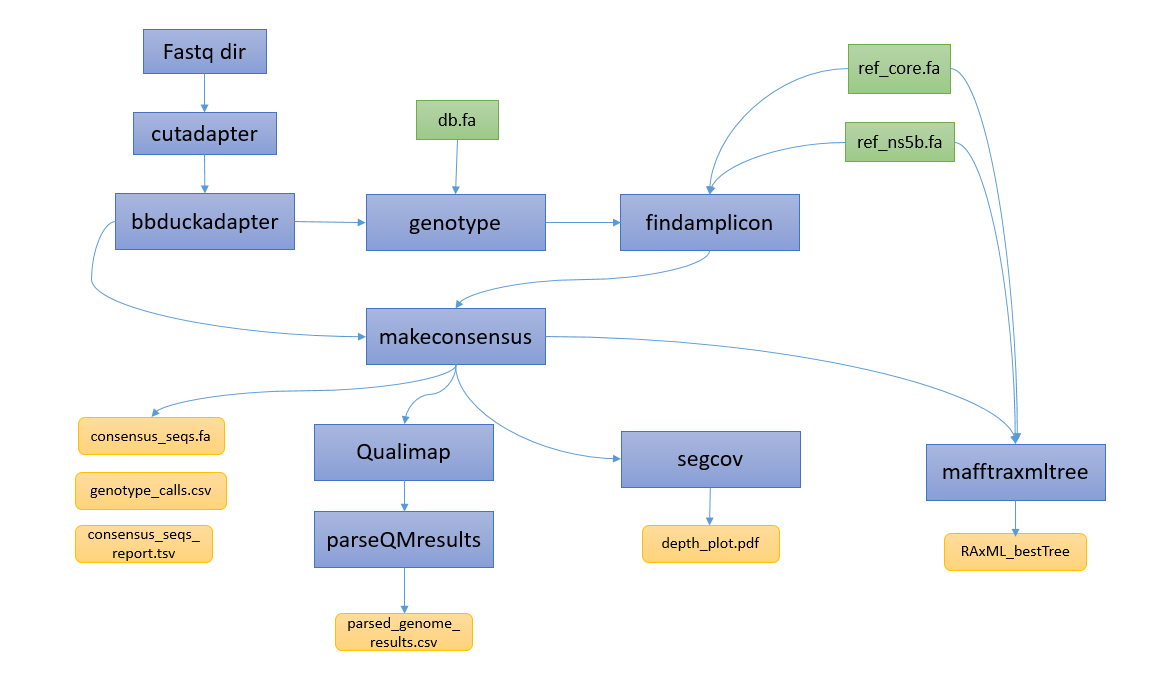
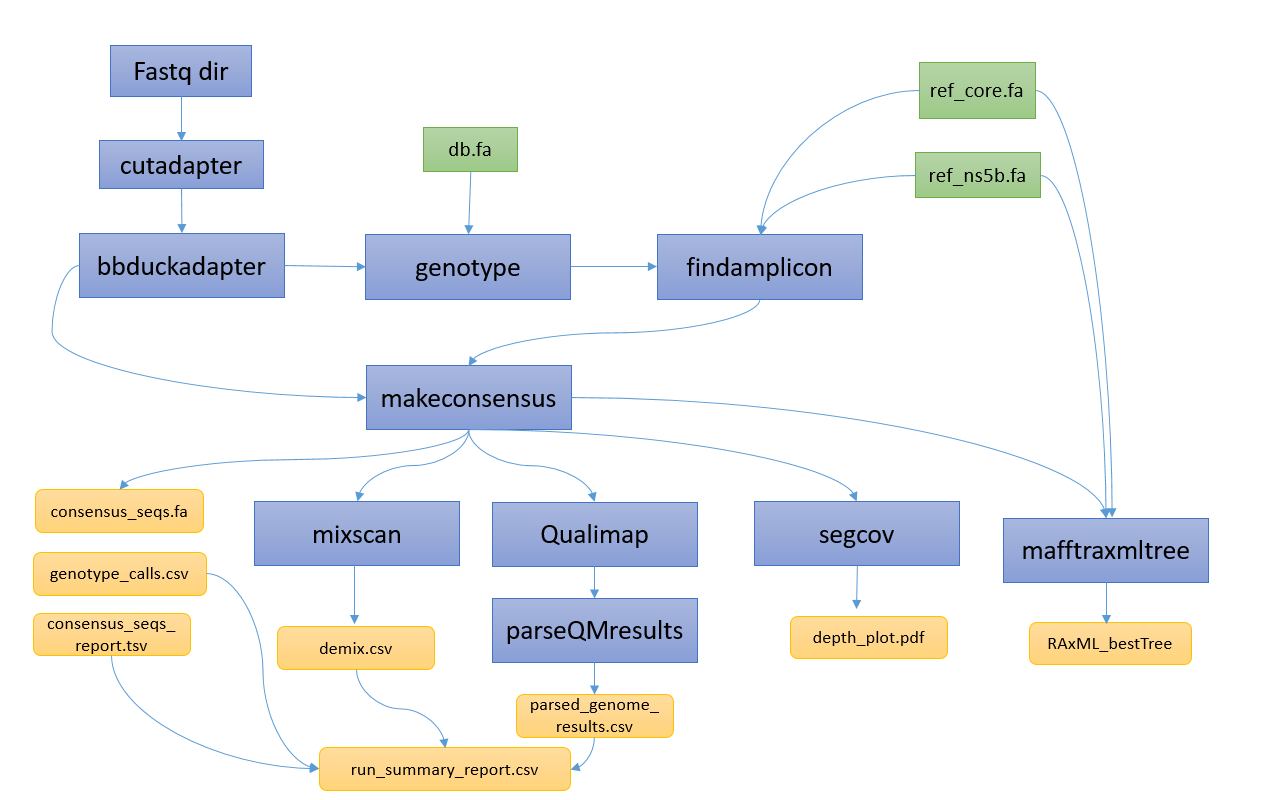
optimized reporting and add stuff to readme

diff --git a/bin/report.py b/bin/report.py
@@ -3,111 +3,134 @@
 import pandas as pd
 import re
 import numpy as np
-
-consensus_report = pd.read_csv('combined_consensus_seqs_report.tsv', sep='\t')
-genotype_calls = pd.read_csv('combined_genotype_calls.csv')
-demix_report = pd.read_csv('combined_demix_report.csv')
-qc_report = pd.read_csv('combined_qc_stats.csv')
-basic_qc = pd.read_csv('../basic_qc/basic_qc_stats.csv')
-abundance = pd.read_csv('../abundance_top_n/top_5_abundances_species.csv')
-
-with open('fastqlist') as f:
-    fqlist = f.readlines()
-
-fqlist = [q.strip() for q in fqlist]
-
-fqlist_df = pd.DataFrame(fqlist, columns = ['sample_id'])
-
-#process consensus result
-consensus_report['sample_id'] = consensus_report['consensus_seq'].apply(lambda x: re.sub("^_R_","", x))
-consensus_report['sample_id'] = consensus_report['sample_id'].apply(lambda x: x.split('_')[0])
-
-consensus_report_reduced = consensus_report[["sample_id","amplicon","subtype","sequenced_bases"]]
-consensus_report_reduced =  consensus_report_reduced.astype(str)
-consensus_report_concat = consensus_report_reduced.groupby(['sample_id', 'amplicon']).agg({'subtype': [('subtype', '|'.join)],'sequenced_bases':[('sequenced_bases','|'.join)]}).reset_index()
-consensus_report_concat = pd.DataFrame(consensus_report_concat.values, columns=['sample_id','amplicon','subtype','sequenced_bases'])
-consensus_report_spread = consensus_report_concat.pivot(index=['sample_id'],columns='amplicon',values=['subtype','sequenced_bases']).reset_index()
-consensus_report_spread.columns = consensus_report_spread.columns.map(lambda index: f'{index[1]}_{index[0]}')
-consensus_report_spread = consensus_report_spread.rename(columns={'_sample_id': 'sample_id'})
-#process qc results
+import argparse
 
 
-qc_report = pd.merge(consensus_report['consensus_seq'],qc_report, left_on="consensus_seq", right_on="contig",how='left')
-qc_report_reduced = qc_report[["sample_id","amplicon","total_mapped_bases","mean_coverage","std_coverage","proportion_genome_covered_over_20x"]]
-qc_report_reduced[['mean_coverage']] = round(qc_report_reduced[['mean_coverage']]).astype(int)
-qc_report_reduced[['std_coverage']] = round(qc_report_reduced[['std_coverage']]).astype(int)
-qc_report_reduced[['proportion_genome_covered_over_20x']] = round(qc_report_reduced[['proportion_genome_covered_over_20x']],2)
-qc_report_reduced =  qc_report_reduced.astype(str)
-qc_report_concat = qc_report_reduced.groupby(['sample_id', 'amplicon']).agg({'total_mapped_bases': [('total_mapped_bases', '|'.join)],'mean_coverage':[('mean_coverage','|'.join)],'std_coverage':[('std_coverage','|'.join)],'proportion_genome_covered_over_20x':[('proportion_genome_covered_over_20x','|'.join)]}).reset_index()
-qc_report_concat = pd.DataFrame(qc_report_concat.values, columns=['sample_id','amplicon','total_mapped_bases','mean_coverage',"std_coverage","proportion_genome_covered_over_20x"])
-qc_report_spread = qc_report_concat.pivot(index=['sample_id'],columns='amplicon',values=['total_mapped_bases','mean_coverage','std_coverage','proportion_genome_covered_over_20x']).reset_index()
-qc_report_spread.columns = qc_report_spread.columns.map(lambda index: f'{index[1]}_{index[0]}')
-qc_report_spread = qc_report_spread.rename(columns={'_sample_id': 'sample_id'})
+def main(args):
+    #consensus_report = pd.read_csv('combined_consensus_seqs_report.tsv', sep='\t')
+    #genotype_calls = pd.read_csv('combined_genotype_calls.csv')
+    #demix_report = pd.read_csv('combined_demix_report.csv')
+    #qc_report = pd.read_csv('combined_qc_stats.csv')
+    #basic_qc = pd.read_csv('../basic_qc/basic_qc_stats.csv')
+    #abundance = pd.read_csv('../abundance_top_n/top_5_abundances_species.csv')
+    consensus_report = pd.read_csv(args.consensus_report, sep='\t')
+    genotype_calls = pd.read_csv(args.genotype_calls)
+    demix_report = pd.read_csv(args.demix_report)
+    qc_report = pd.read_csv(args.qc_report)
+    basic_qc = pd.read_csv(args.basic_qc)
+    abundance = pd.read_csv(args.abundance_top_n)
 
-#process genotype results
-genotype_calls['sample_id'] = genotype_calls['qseqid'].apply(lambda x: re.sub("^_R_","", x))
-genotype_calls['sample_id'] = genotype_calls['sample_id'].apply(lambda x: x.split('_')[0])
-genotype_calls['amplicon'] = genotype_calls['qseqid'].apply(lambda x: x.split('|')[1])
-genotype_calls['qseqid'] = genotype_calls['qseqid'].apply(lambda x: x.split('|')[0])
+    with open(args.fastqlist) as f:
+        fqlist = f.readlines()
 
-genotype_calls_reduced = genotype_calls[['sample_id','qseqid', 'sseqid','amplicon','bitscore']]
+    fqlist = [q.strip() for q in fqlist]
 
-#top1 genotype
-best_bitscores = genotype_calls_reduced.groupby(['qseqid','amplicon']).max('bitcore').reset_index()
-best_gt = pd.merge(genotype_calls_reduced, best_bitscores, on=['qseqid', 'amplicon','bitscore'])
+    fqlist_df = pd.DataFrame(fqlist, columns = ['sample_id'])
 
-#best_gt = best_gt.groupby(['sample_id', 'amplicon']).agg({'sseqid': [('sseqid', ','.join)],'bitscore':[('bitscore',np.mean)]}).reset_index()
-best_gt = best_gt.groupby(['sample_id', 'amplicon']).agg({'sseqid': [('sseqid', ','.join)],'bitscore':[('bitscore',list)]}).reset_index()
-best_gt = pd.DataFrame(best_gt.values, columns = ['sample_id','amplicon','top1_genotype','top1_bitscore'])
-best_gt_spread = best_gt.pivot(index=['sample_id'],columns='amplicon',values=['top1_genotype','top1_bitscore']).reset_index()
-best_gt_spread.columns = best_gt_spread.columns.map(lambda index: f'{index[1]}_{index[0]}')
-best_gt_spread = best_gt_spread.rename(columns={'_sample_id': 'sample_id'})
+    #process consensus result
+    consensus_report['sample_id'] = consensus_report['consensus_seq'].apply(lambda x: re.sub("^_R_","", x))
+    consensus_report['sample_id'] = consensus_report['sample_id'].apply(lambda x: x.split('_')[0])
 
-#top2 genotype
+    consensus_report_reduced = consensus_report[["sample_id","amplicon","subtype","sequenced_bases"]]
+    consensus_report_reduced =  consensus_report_reduced.astype(str)
+    consensus_report_concat = consensus_report_reduced.groupby(['sample_id', 'amplicon']).agg({'subtype': [('subtype', '|'.join)],'sequenced_bases':[('sequenced_bases','|'.join)]}).reset_index()
+    consensus_report_concat = pd.DataFrame(consensus_report_concat.values, columns=['sample_id','amplicon','subtype','sequenced_bases'])
+    consensus_report_spread = consensus_report_concat.pivot(index=['sample_id'],columns='amplicon',values=['subtype','sequenced_bases']).reset_index()
+    consensus_report_spread.columns = consensus_report_spread.columns.map(lambda index: f'{index[1]}_{index[0]}')
+    consensus_report_spread = consensus_report_spread.rename(columns={'_sample_id': 'sample_id'})
+    #process qc results
 
-res = pd.merge(genotype_calls_reduced,best_bitscores,  on=['qseqid', 'amplicon','bitscore'], how='outer',indicator=True).query('_merge != "both"').drop(columns='_merge')
-second_bitscores = res.groupby(['qseqid','amplicon']).max('bitcore').reset_index()
-second_gt = pd.merge(res, second_bitscores, on=['qseqid', 'amplicon','bitscore'])
 
-second_gt = second_gt.groupby(['sample_id', 'amplicon']).agg({'sseqid': [('sseqid', ','.join)],'bitscore':[('bitscore',list)]}).reset_index()
-second_gt = pd.DataFrame(second_gt.values, columns = ['sample_id','amplicon','top2_genotype','top2_bitscore'])
-second_gt_spread = second_gt.pivot(index=['sample_id'],columns='amplicon',values=['top2_genotype','top2_bitscore']).reset_index()
-second_gt_spread.columns = second_gt_spread.columns.map(lambda index: f'{index[1]}_{index[0]}')
-second_gt_spread = second_gt_spread.rename(columns={'_sample_id': 'sample_id'})
-#merge 1 with consensus report
-merge0 = pd.merge(fqlist_df,basic_qc[['sample_id','total_bases']],on = 'sample_id', how='left')
-merge01 = pd.merge(merge0,abundance,on = 'sample_id', how='left')
-merge1 = pd.merge(merge01,consensus_report_spread, on = 'sample_id', how='left')
-merge2 = pd.merge(merge1, qc_report_spread, on='sample_id',how='left')
-merge3 = pd.merge(merge2, best_gt_spread, on='sample_id',how='left')
-merge4 = pd.merge(merge3, second_gt_spread, on='sample_id',how='left')
-merge5 = pd.merge(merge4, demix_report, on='sample_id',how='left')
+    qc_report = pd.merge(consensus_report['consensus_seq'],qc_report, left_on="consensus_seq", right_on="contig",how='left')
+    qc_report_reduced = qc_report[["sample_id","amplicon","total_mapped_bases","mean_coverage","std_coverage","proportion_genome_covered_over_20x"]]
+    qc_report_reduced[['mean_coverage']] = round(qc_report_reduced[['mean_coverage']]).astype(int)
+    qc_report_reduced[['std_coverage']] = round(qc_report_reduced[['std_coverage']]).astype(int)
+    qc_report_reduced[['proportion_genome_covered_over_20x']] = round(qc_report_reduced[['proportion_genome_covered_over_20x']],2)
+    qc_report_reduced =  qc_report_reduced.astype(str)
+    qc_report_concat = qc_report_reduced.groupby(['sample_id', 'amplicon']).agg({'total_mapped_bases': [('total_mapped_bases', '|'.join)],'mean_coverage':[('mean_coverage','|'.join)],'std_coverage':[('std_coverage','|'.join)],'proportion_genome_covered_over_20x':[('proportion_genome_covered_over_20x','|'.join)]}).reset_index()
+    qc_report_concat = pd.DataFrame(qc_report_concat.values, columns=['sample_id','amplicon','total_mapped_bases','mean_coverage',"std_coverage","proportion_genome_covered_over_20x"])
+    qc_report_spread = qc_report_concat.pivot(index=['sample_id'],columns='amplicon',values=['total_mapped_bases','mean_coverage','std_coverage','proportion_genome_covered_over_20x']).reset_index()
+    qc_report_spread.columns = qc_report_spread.columns.map(lambda index: f'{index[1]}_{index[0]}')
+    qc_report_spread = qc_report_spread.rename(columns={'_sample_id': 'sample_id'})
 
-conditions = [
-  (merge5['abundance_1_name'] == "Hepacivirus C"),
-  (merge5['abundance_2_name'] == "Hepacivirus C"),
-  (merge5['abundance_3_name'] == "Hepacivirus C"),
-  (merge5['abundance_4_name'] == "Hepacivirus C"),
-  (merge5['abundance_5_name'] == "Hepacivirus C")
-]
-choices = [merge5['abundance_1_fraction_total_reads']* merge5['total_bases'],merge5['abundance_2_fraction_total_reads']*merge5['total_bases'],merge5['abundance_3_fraction_total_reads']* merge5['total_bases'],merge5['abundance_4_fraction_total_reads']* merge5['total_bases'],merge5['abundance_5_fraction_total_reads']* merge5['total_bases']]
-merge5['hcv_bases'] =  np.select(conditions,choices,default=0) 
-#print(merge5)
-#FLAGGING samples
-conditions = [
-    #~(merge5['most_abundant_species_name'] == "Hepacivirus C"),#check if hcv is not the most abundant, even for negative controls
-    (merge5['hcv_bases'] < 20000),
-    (merge5['core_subtype'].isna() | merge5['ns5b_subtype'].isna()),
-    ~(merge5['core_subtype'] == merge5['ns5b_subtype']) & (merge5['core_subtype'].notna() & merge5['ns5b_subtype'].notna()),
-    (merge5['ns5b_sequenced_bases'].notna()) & (merge5['ns5b_sequenced_bases'].astype(str).apply(lambda x: min(x.split('|'))).replace('nan',np.nan).fillna(0).astype(int) < 300),
-    (merge5['core_sequenced_bases'].notna()) & (merge5['core_sequenced_bases'].astype(str).apply(lambda x: min(x.split('|'))).replace('nan',np.nan).fillna(0).astype(int) < 300),
-    (merge5['core_mean_coverage'].notna()) & (merge5['core_mean_coverage'].astype(str).apply(lambda x: min(x.split('|'))).replace('nan',np.nan).fillna(0).astype(int) < 20),
-    (merge5['ns5b_mean_coverage'].notna()) & (merge5['ns5b_mean_coverage'].astype(str).apply(lambda x: min(x.split('|'))).replace('nan',np.nan).fillna(0).astype(int) < 20)
-    
-]
+    #process genotype results
+    genotype_calls['sample_id'] = genotype_calls['qseqid'].apply(lambda x: re.sub("^_R_","", x))
+    genotype_calls['sample_id'] = genotype_calls['sample_id'].apply(lambda x: x.split('_')[0])
+    genotype_calls['amplicon'] = genotype_calls['qseqid'].apply(lambda x: x.split('|')[1])
+    genotype_calls['qseqid'] = genotype_calls['qseqid'].apply(lambda x: x.split('|')[0])
 
-choices = ['Check - low HCV content','Check - missing core/ns5b subtype', 'Check - mismatch core/ns5b subtypes','Check - ns5b sequenced bases','Check - core sequenced bases', 'Check - core mean coverage < 20', 'Check - ns5b mean coverage < 20']
+    genotype_calls_reduced = genotype_calls[['sample_id','qseqid', 'sseqid','amplicon','bitscore']]
 
-merge5['check'] = np.select(conditions,choices,default="PASS") 
+    #top1 genotype
+    best_bitscores = genotype_calls_reduced.groupby(['qseqid','amplicon']).max('bitcore').reset_index()
+    best_gt = pd.merge(genotype_calls_reduced, best_bitscores, on=['qseqid', 'amplicon','bitscore'])
 
-merge5.to_csv('run_summary_report.csv',index=False)
+    #best_gt = best_gt.groupby(['sample_id', 'amplicon']).agg({'sseqid': [('sseqid', ','.join)],'bitscore':[('bitscore',np.mean)]}).reset_index()
+    best_gt = best_gt.groupby(['sample_id', 'amplicon']).agg({'sseqid': [('sseqid', ','.join)],'bitscore':[('bitscore',list)]}).reset_index()
+    best_gt = pd.DataFrame(best_gt.values, columns = ['sample_id','amplicon','top1_genotype','top1_bitscore'])
+    best_gt_spread = best_gt.pivot(index=['sample_id'],columns='amplicon',values=['top1_genotype','top1_bitscore']).reset_index()
+    best_gt_spread.columns = best_gt_spread.columns.map(lambda index: f'{index[1]}_{index[0]}')
+    best_gt_spread = best_gt_spread.rename(columns={'_sample_id': 'sample_id'})
+
+    #top2 genotype
+
+    res = pd.merge(genotype_calls_reduced,best_bitscores,  on=['qseqid', 'amplicon','bitscore'], how='outer',indicator=True).query('_merge != "both"').drop(columns='_merge')
+    second_bitscores = res.groupby(['qseqid','amplicon']).max('bitcore').reset_index()
+    second_gt = pd.merge(res, second_bitscores, on=['qseqid', 'amplicon','bitscore'])
+
+    second_gt = second_gt.groupby(['sample_id', 'amplicon']).agg({'sseqid': [('sseqid', ','.join)],'bitscore':[('bitscore',list)]}).reset_index()
+    second_gt = pd.DataFrame(second_gt.values, columns = ['sample_id','amplicon','top2_genotype','top2_bitscore'])
+    second_gt_spread = second_gt.pivot(index=['sample_id'],columns='amplicon',values=['top2_genotype','top2_bitscore']).reset_index()
+    second_gt_spread.columns = second_gt_spread.columns.map(lambda index: f'{index[1]}_{index[0]}')
+    second_gt_spread = second_gt_spread.rename(columns={'_sample_id': 'sample_id'})
+    #merge 1 with consensus report
+    merge0 = pd.merge(fqlist_df,basic_qc[['sample_id','total_bases']],on = 'sample_id', how='left')
+    merge01 = pd.merge(merge0,abundance,on = 'sample_id', how='left')
+    merge1 = pd.merge(merge01,consensus_report_spread, on = 'sample_id', how='left')
+    merge2 = pd.merge(merge1, qc_report_spread, on='sample_id',how='left')
+    merge3 = pd.merge(merge2, best_gt_spread, on='sample_id',how='left')
+    merge4 = pd.merge(merge3, second_gt_spread, on='sample_id',how='left')
+    merge5 = pd.merge(merge4, demix_report, on='sample_id',how='left')
+
+    conditions = [
+      (merge5['abundance_1_name'] == "Hepacivirus C"),
+      (merge5['abundance_2_name'] == "Hepacivirus C"),
+      (merge5['abundance_3_name'] == "Hepacivirus C"),
+      (merge5['abundance_4_name'] == "Hepacivirus C"),
+      (merge5['abundance_5_name'] == "Hepacivirus C")
+    ]
+    choices = [merge5['abundance_1_fraction_total_reads']* merge5['total_bases'],merge5['abundance_2_fraction_total_reads']*merge5['total_bases'],merge5['abundance_3_fraction_total_reads']* merge5['total_bases'],merge5['abundance_4_fraction_total_reads']* merge5['total_bases'],merge5['abundance_5_fraction_total_reads']* merge5['total_bases']]
+    merge5['hcv_bases'] =  np.select(conditions,choices,default=0) 
+    #print(merge5)
+    #FLAGGING samples
+    conditions = [
+        #~(merge5['most_abundant_species_name'] == "Hepacivirus C"),#check if hcv is not the most abundant, even for negative controls
+        (merge5['hcv_bases'] < 22000),
+        (merge5['core_subtype'].isna() | merge5['ns5b_subtype'].isna()),
+        ~(merge5['core_subtype'] == merge5['ns5b_subtype']) & (merge5['core_subtype'].notna() & merge5['ns5b_subtype'].notna()),
+        (merge5['ns5b_sequenced_bases'].notna()) & (merge5['ns5b_sequenced_bases'].astype(str).apply(lambda x: min(x.split('|'))).replace('nan',np.nan).fillna(0).astype(int) < 300),
+        (merge5['core_sequenced_bases'].notna()) & (merge5['core_sequenced_bases'].astype(str).apply(lambda x: min(x.split('|'))).replace('nan',np.nan).fillna(0).astype(int) < 300),
+        (merge5['core_mean_coverage'].notna()) & (merge5['core_mean_coverage'].astype(str).apply(lambda x: min(x.split('|'))).replace('nan',np.nan).fillna(0).astype(int) < 20),
+        (merge5['ns5b_mean_coverage'].notna()) & (merge5['ns5b_mean_coverage'].astype(str).apply(lambda x: min(x.split('|'))).replace('nan',np.nan).fillna(0).astype(int) < 20)
+        
+    ]
+
+    choices = ['Check - low HCV content','Check - missing core/ns5b subtype', 'Check - mismatch core/ns5b subtypes','Check - ns5b sequenced bases','Check - core sequenced bases', 'Check - core mean coverage < 20', 'Check - ns5b mean coverage < 20']
+
+    merge5['check'] = np.select(conditions,choices,default="PASS") 
+
+    merge5.to_csv('run_summary_report.csv',index=False)
+
+
+if __name__ == "__main__":
+    parser = argparse.ArgumentParser()
+    parser.add_argument('--consensus_report')
+    parser.add_argument('--genotype_calls')
+    parser.add_argument('--demix_report')
+    parser.add_argument('--qc_report')
+    parser.add_argument('--basic_qc')
+    parser.add_argument('--abundance_top_n')
+    parser.add_argument('--fastqlist')
+#    parser.add_argument('-s', '--sample-id')
+    args = parser.parse_args()
+    main(args)

diff --git a/README.md b/README.md
@@ -1,9 +1,8 @@
 # hcv_nf
 
-The process for genotyping HCV is partially adapted from [FluViewer tool](https://github.com/KevinKuchinski/FluViewer).
+The process is partially adapted from [FluViewer tool](https://github.com/KevinKuchinski/FluViewer) for genotype HCV amplicon sequencing data. Samples are only amplied in the core (361-764) and ns5b region (8803-9191). This is a purely assembly-based approach. The assembly is done using SPades. Top 10 genotypes are produced when blast (blastn) the contigs to the database. 
 
 The workflow is captured in the diagram below![diagram](pics/workflow.PNG).
-
 
 ## Usage
 
@@ -15,11 +14,32 @@ nextflow run BCCDC-PHL/hcv_nf \
   --db <path/to/ref/db> \
   --ref_core <path/to/ref_core/db> \
   --ref_ns5b <path/to/ref_ns5b/db> \
+  --basic_qc <path/to/basic_qc_stats.csv> \
+  --abundance_top_n <path/to/Top_5_abundances_species.csv> \
   --outdir <path/to/output_dir> \ 
 ```
 ### Input
 
-The required inputs are fastq input directory, path to the full length HCV reference database, pathes to reference database that have core side extraced, and ns5b extracted.
+The required inputs are:
+-fastq input directory
+-path to the full length HCV reference database
+-path to reference database that have core side extraced
+-path to reference database that have ns5b side extraced
+-path to basic_qc_stats.csv which is the output of the pipeline BCCDC-PHL basic_qc
+-path to abundance top 5 which is the output of the routine sequence qc pipeline maintained by BCCDC-PHL
+-outdir directory to store the results
 
-`--mode` can be either align or assemble, default is assemble. It is recommended to use assemble mode for HCV genotyping.
 
+### Output
+
+| outputs  | description |
+| ------------- | ------------- |
+| run_summary_report.csv  | the combined summary for consensus report, genotype, qc stats, demixming results  and check column |
+| consensus_seqs.fa | consensus sequences for core and/or ns5b  |
+| genotype_calls.csv | top 10 blastn results after blast the consensus sequences to the database, some columns are in the run_summary_report.csv|
+| demix.csv | proportions of different subtypes present in the sample, are also in the run_summary_report.csv |
+| parsed_genome_results.csv | qc stats for mean coverage, total mapped reads, median coverage, depth, percent completeness at different depth. also in the run_summary_report|
+| mapped_to_db.bam | mapping raw reads to all references in the database|
+| mapped_to_ref.bam | mapping raw reads to the assembly | 
+| RAxML_bestTree.1Ao4_core | Tree with sample of interests and the core references|
+| RAxML_bestTree.1Ao4_ns5b | Tree with sample of interests and the ns5b references|
